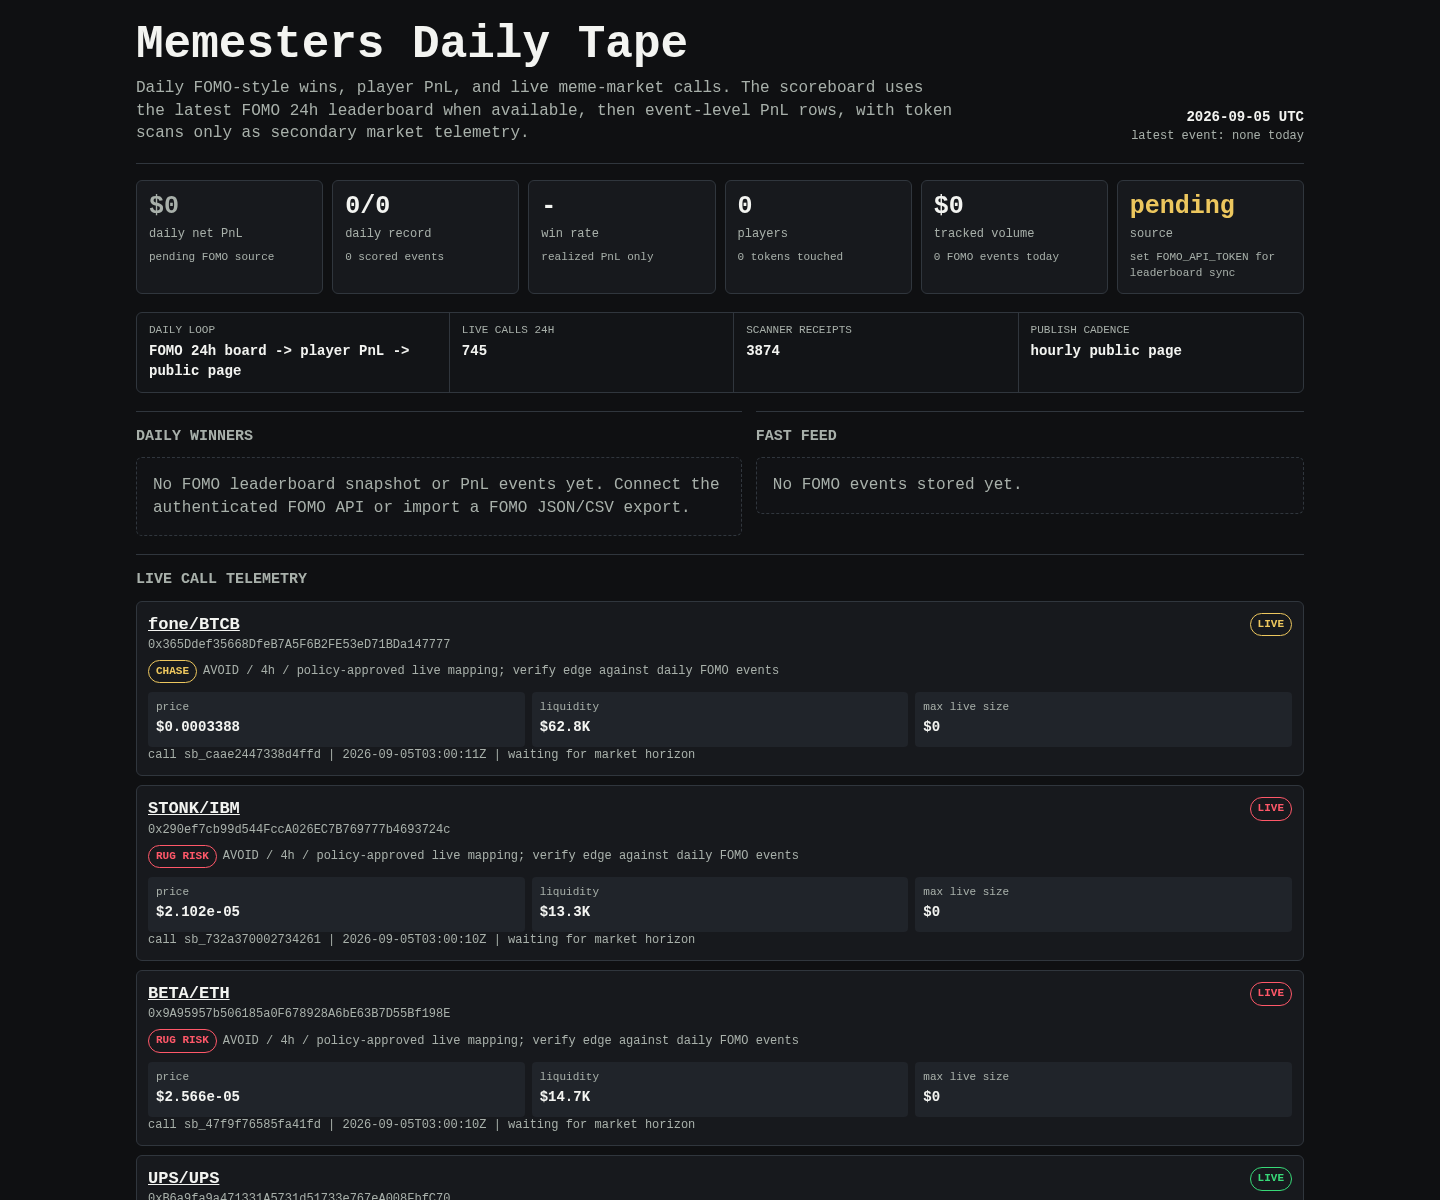
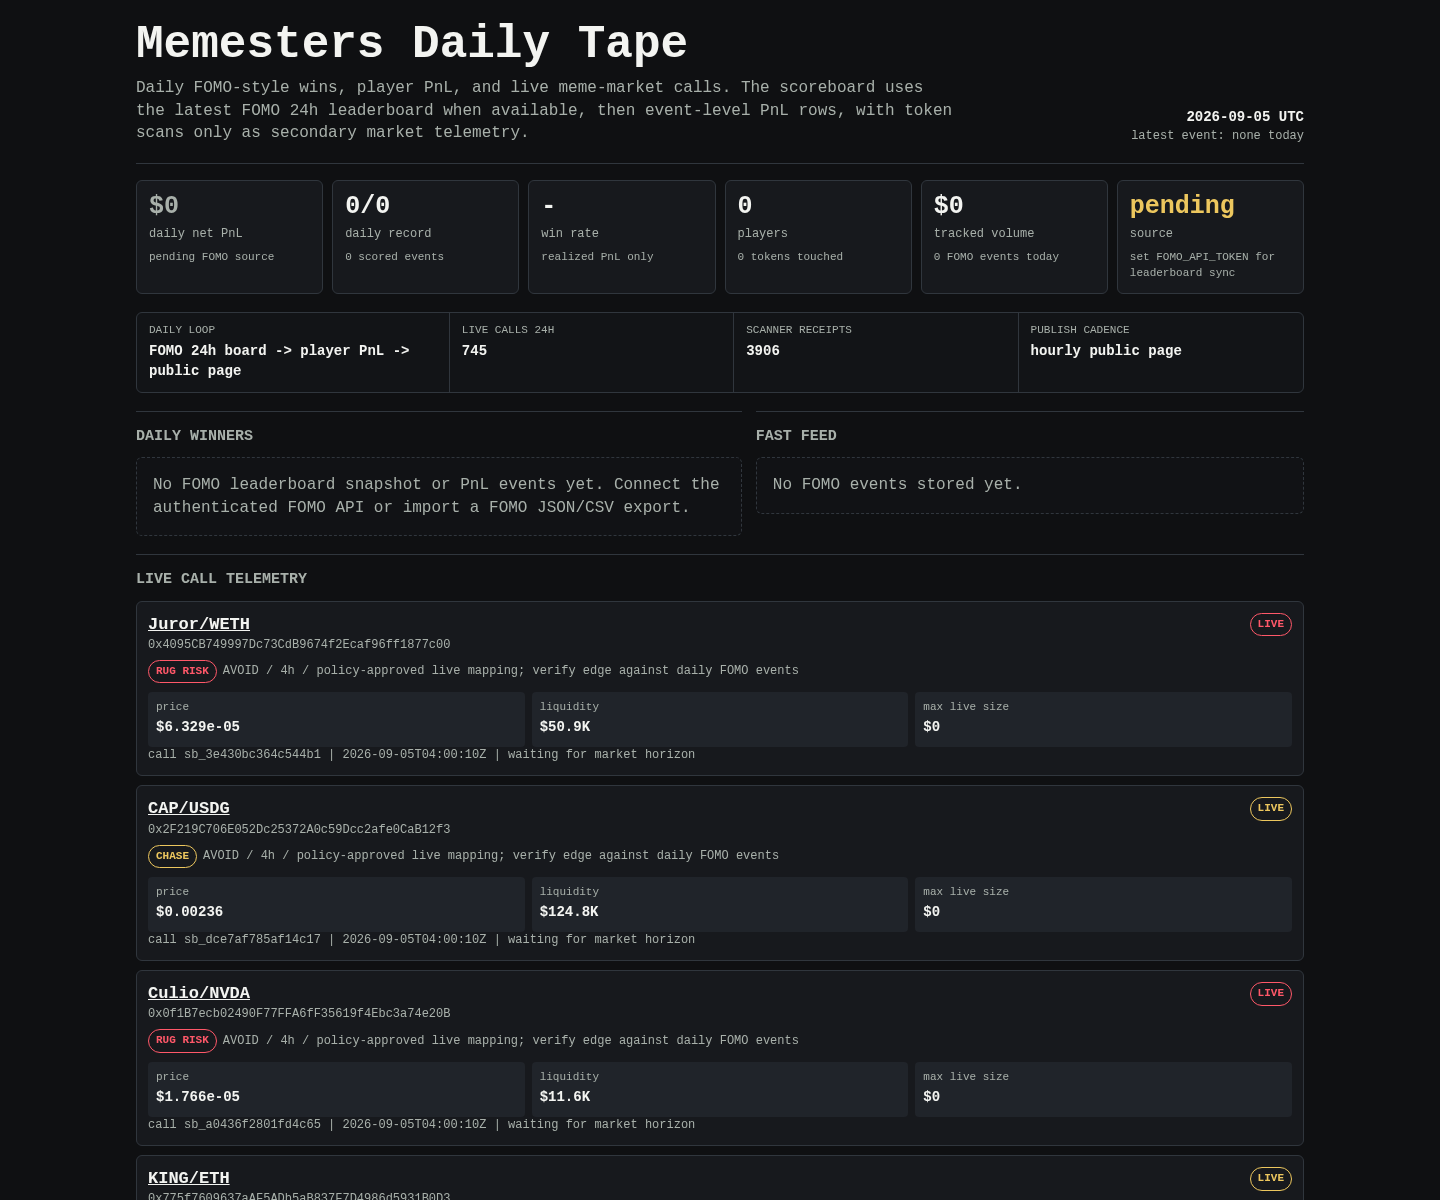
Update Memesters scoreboard

diff --git a/memesters/index.html b/memesters/index.html
@@ -150,7 +150,7 @@
     <div class="rail" aria-label="live operating loop">
       <div><span>daily loop</span><b>FOMO 24h board -> player PnL -> public page</b></div>
       <div><span>live calls 24h</span><b>745</b></div>
-      <div><span>scanner receipts</span><b>3874</b></div>
+      <div><span>scanner receipts</span><b>3906</b></div>
       <div><span>publish cadence</span><b>hourly public page</b></div>
     </div>
 
@@ -171,8 +171,29 @@
     <article class="receipt">
       <div class="receipt-head">
         <div>
-          <div class="pair"><a href="https://dexscreener.com/bsc/0xa6f815e85aa629164756e0878d3dfdef8192064d">fone/BTCB</a></div>
-          <div class="addr">0x365Ddef35668DfeB7A5F6B2FE53eD71BDa147777</div>
+          <div class="pair"><a href="https://dexscreener.com/robinhood/0xfa501c447584e6d9603cb5d0b1864ee9d8a29b53">Juror/WETH</a></div>
+          <div class="addr">0x4095CB749997Dc73CdB9674f2Ecaf96ff1877c00</div>
+          <div class="addr policy-line">
+            <span class="badge rug-risk">RUG RISK</span>
+            <span>AVOID / 4h / policy-approved live mapping; verify edge against daily FOMO events</span>
+          </div>
+        </div>
+        <span class="badge rug-risk">LIVE</span>
+      </div>
+      <div class="receipt-grid">
+        <div class="kv"><span>price</span><b>$6.329e-05</b></div>
+        <div class="kv"><span>liquidity</span><b>$50.9K</b></div>
+        <div class="kv"><span>max live size</span><b>$0</b></div>
+      </div>
+      <div class="outcomes">call sb_3e430bc364c544b1 | 2026-09-05T04:00:10Z | waiting for market horizon</div>
+    </article>
+    
+
+    <article class="receipt">
+      <div class="receipt-head">
+        <div>
+          <div class="pair"><a href="https://dexscreener.com/robinhood/0xd5309d2e80ee500048b9095f9b479c168d07ffec33d3f3ee7ac366983e8cf14b">CAP/USDG</a></div>
+          <div class="addr">0x2F219C706E052Dc25372A0c59Dcc2afe0CaB12f3</div>
           <div class="addr policy-line">
             <span class="badge chase">CHASE</span>
             <span>AVOID / 4h / policy-approved live mapping; verify edge against daily FOMO events</span>
@@ -181,19 +202,19 @@
         <span class="badge chase">LIVE</span>
       </div>
       <div class="receipt-grid">
-        <div class="kv"><span>price</span><b>$0.0003388</b></div>
-        <div class="kv"><span>liquidity</span><b>$62.8K</b></div>
+        <div class="kv"><span>price</span><b>$0.00236</b></div>
+        <div class="kv"><span>liquidity</span><b>$124.8K</b></div>
         <div class="kv"><span>max live size</span><b>$0</b></div>
       </div>
-      <div class="outcomes">call sb_caae2447338d4ffd | 2026-09-05T03:00:11Z | waiting for market horizon</div>
+      <div class="outcomes">call sb_dce7af785af14c17 | 2026-09-05T04:00:10Z | waiting for market horizon</div>
     </article>
     
 
     <article class="receipt">
       <div class="receipt-head">
         <div>
-          <div class="pair"><a href="https://dexscreener.com/robinhood/0x0d8ac726c417dd19be24650c778f1ee494918b4e1a0b857a79ee69a371820d99">STONK/IBM</a></div>
-          <div class="addr">0x290ef7cb99d544FccA026EC7B769777b4693724c</div>
+          <div class="pair"><a href="https://dexscreener.com/robinhood/0xcf1c7c53e10159a48db565b097becbff6331a69937a0553c16106f3f4edc8aa7">Culio/NVDA</a></div>
+          <div class="addr">0x0f1B7ecb02490F77FFA6fF35619f4Ebc3a74e20B</div>
           <div class="addr policy-line">
             <span class="badge rug-risk">RUG RISK</span>
             <span>AVOID / 4h / policy-approved live mapping; verify edge against daily FOMO events</span>
@@ -202,19 +223,40 @@
         <span class="badge rug-risk">LIVE</span>
       </div>
       <div class="receipt-grid">
-        <div class="kv"><span>price</span><b>$2.102e-05</b></div>
-        <div class="kv"><span>liquidity</span><b>$13.3K</b></div>
+        <div class="kv"><span>price</span><b>$1.766e-05</b></div>
+        <div class="kv"><span>liquidity</span><b>$11.6K</b></div>
         <div class="kv"><span>max live size</span><b>$0</b></div>
       </div>
-      <div class="outcomes">call sb_732a370002734261 | 2026-09-05T03:00:10Z | waiting for market horizon</div>
+      <div class="outcomes">call sb_a0436f2801fd4c65 | 2026-09-05T04:00:10Z | waiting for market horizon</div>
     </article>
     
 
     <article class="receipt">
       <div class="receipt-head">
         <div>
-          <div class="pair"><a href="https://dexscreener.com/robinhood/0x3635abf0d047b848504e790e09bc3153f600e1b5a35cf5fb62216c61ad88129b">BETA/ETH</a></div>
-          <div class="addr">0x9A95957b506185a0F678928A6bE63B7D55Bf198E</div>
+          <div class="pair"><a href="https://dexscreener.com/robinhood/0xae6b21954c44c8c2d6b4a92b442cca201e26e380f2476edf04eec902b246de28">KING/ETH</a></div>
+          <div class="addr">0x775f7609637aAF5ADb5aB837F7D4986d5931B0D3</div>
+          <div class="addr policy-line">
+            <span class="badge chase">CHASE</span>
+            <span>AVOID / 4h / policy-approved live mapping; verify edge against daily FOMO events</span>
+          </div>
+        </div>
+        <span class="badge chase">LIVE</span>
+      </div>
+      <div class="receipt-grid">
+        <div class="kv"><span>price</span><b>$0.0002509</b></div>
+        <div class="kv"><span>liquidity</span><b>$46.0K</b></div>
+        <div class="kv"><span>max live size</span><b>$0</b></div>
+      </div>
+      <div class="outcomes">call sb_560c705703b441cd | 2026-09-05T04:00:09Z | waiting for market horizon</div>
+    </article>
+    
+
+    <article class="receipt">
+      <div class="receipt-head">
+        <div>
+          <div class="pair"><a href="https://dexscreener.com/robinhood/0xc4adeb4fce7004cde9617c00e0c601b3aef82a1e9e2e33084cc8a6a2e9c60088">PRESSO/ETH</a></div>
+          <div class="addr">0xFAF3Bf2FA4CB7a8B202C6ec897eC2a0a0Be9c2C0</div>
           <div class="addr policy-line">
             <span class="badge rug-risk">RUG RISK</span>
             <span>AVOID / 4h / policy-approved live mapping; verify edge against daily FOMO events</span>
@@ -223,19 +265,103 @@
         <span class="badge rug-risk">LIVE</span>
       </div>
       <div class="receipt-grid">
-        <div class="kv"><span>price</span><b>$2.566e-05</b></div>
-        <div class="kv"><span>liquidity</span><b>$14.7K</b></div>
+        <div class="kv"><span>price</span><b>$3.096e-06</b></div>
+        <div class="kv"><span>liquidity</span><b>$5.1K</b></div>
         <div class="kv"><span>max live size</span><b>$0</b></div>
       </div>
-      <div class="outcomes">call sb_47f9f76585fa41fd | 2026-09-05T03:00:10Z | waiting for market horizon</div>
+      <div class="outcomes">call sb_953b6222343b4da1 | 2026-09-05T04:00:09Z | waiting for market horizon</div>
     </article>
     
 
     <article class="receipt">
       <div class="receipt-head">
         <div>
-          <div class="pair"><a href="https://dexscreener.com/robinhood/0xfb9b1669a189d1d5584ae2e6e9c523471c00c239ffb578bbfb423b01cf57cff1">UPS/UPS</a></div>
-          <div class="addr">0xB6a9fa9a471331A5731d51733e767eA008FbfC70</div>
+          <div class="pair"><a href="https://dexscreener.com/solana/6iw5e1nznl1liwkx4d2j9cifpemdv4qgajecnlttjmst">motion/SOL</a></div>
+          <div class="addr">HXe9JMFGJabPqM6tiNB6tyFSGnXrYiwz8Ps5Ks81ASyf</div>
+          <div class="addr policy-line">
+            <span class="badge rug-risk">RUG RISK</span>
+            <span>AVOID / 4h / policy-approved live mapping; verify edge against daily FOMO events</span>
+          </div>
+        </div>
+        <span class="badge rug-risk">LIVE</span>
+      </div>
+      <div class="receipt-grid">
+        <div class="kv"><span>price</span><b>$5.667e-06</b></div>
+        <div class="kv"><span>liquidity</span><b>$4.6K</b></div>
+        <div class="kv"><span>max live size</span><b>$0</b></div>
+      </div>
+      <div class="outcomes">call sb_a8fb0c982d264b50 | 2026-09-05T04:00:09Z | waiting for market horizon</div>
+    </article>
+    
+
+    <article class="receipt">
+      <div class="receipt-head">
+        <div>
+          <div class="pair"><a href="https://dexscreener.com/robinhood/0x1c17c31cf2e0cca612abb8ec548cecb68d264717e96bf83cc7b2b3737cae056d">MEGA/ETH</a></div>
+          <div class="addr">0xA6313667267Cb099FeCC5Ed784d3BdB640c801d5</div>
+          <div class="addr policy-line">
+            <span class="badge rug-risk">RUG RISK</span>
+            <span>AVOID / 4h / policy-approved live mapping; verify edge against daily FOMO events</span>
+          </div>
+        </div>
+        <span class="badge rug-risk">LIVE</span>
+      </div>
+      <div class="receipt-grid">
+        <div class="kv"><span>price</span><b>$2.331e-05</b></div>
+        <div class="kv"><span>liquidity</span><b>$14.0K</b></div>
+        <div class="kv"><span>max live size</span><b>$0</b></div>
+      </div>
+      <div class="outcomes">call sb_7f4e74ea707544ae | 2026-09-05T04:00:09Z | waiting for market horizon</div>
+    </article>
+    
+
+    <article class="receipt">
+      <div class="receipt-head">
+        <div>
+          <div class="pair"><a href="https://dexscreener.com/robinhood/0x8258ffe591e5f88ecedc909022da25001ab89cca">AGI/WETH</a></div>
+          <div class="addr">0xf5B204181f903d3873c0cc1f9Bf3a11DB2788c5d</div>
+          <div class="addr policy-line">
+            <span class="badge chase">CHASE</span>
+            <span>AVOID / 4h / policy-approved live mapping; verify edge against daily FOMO events</span>
+          </div>
+        </div>
+        <span class="badge chase">LIVE</span>
+      </div>
+      <div class="receipt-grid">
+        <div class="kv"><span>price</span><b>$0.0001415</b></div>
+        <div class="kv"><span>liquidity</span><b>$57.2K</b></div>
+        <div class="kv"><span>max live size</span><b>$0</b></div>
+      </div>
+      <div class="outcomes">call sb_a585372d00b5439c | 2026-09-05T04:00:09Z | waiting for market horizon</div>
+    </article>
+    
+
+    <article class="receipt">
+      <div class="receipt-head">
+        <div>
+          <div class="pair"><a href="https://dexscreener.com/robinhood/0x63521fdba743b906dc313a667322a3e60481ed079a586c0b029831d7d9d92ab8">SHEKEL/GLD</a></div>
+          <div class="addr">0xa71a93AB155D55eD3d62Fb5F5650801f787f806f</div>
+          <div class="addr policy-line">
+            <span class="badge chase">CHASE</span>
+            <span>AVOID / 4h / policy-approved live mapping; verify edge against daily FOMO events</span>
+          </div>
+        </div>
+        <span class="badge chase">LIVE</span>
+      </div>
+      <div class="receipt-grid">
+        <div class="kv"><span>price</span><b>$0.0001245</b></div>
+        <div class="kv"><span>liquidity</span><b>$32.9K</b></div>
+        <div class="kv"><span>max live size</span><b>$0</b></div>
+      </div>
+      <div class="outcomes">call sb_1ce7bc6d7d9a4ba1 | 2026-09-05T03:45:09Z | waiting for market horizon</div>
+    </article>
+    
+
+    <article class="receipt">
+      <div class="receipt-head">
+        <div>
+          <div class="pair"><a href="https://dexscreener.com/robinhood/0xc6bf528083e6529f2032e31634d9045595d0759c44320178c5bc1aa87030c298">LMI/LMT</a></div>
+          <div class="addr">0x05086516A3e1f69A604365Bde4F01AD91D0eda01</div>
           <div class="addr policy-line">
             <span class="badge early">EARLY</span>
             <span>BUY / 1h / policy-approved live mapping; verify edge against daily FOMO events</span>
@@ -244,137 +370,11 @@
         <span class="badge early">LIVE</span>
       </div>
       <div class="receipt-grid">
-        <div class="kv"><span>price</span><b>$4.367e-05</b></div>
-        <div class="kv"><span>liquidity</span><b>$19.1K</b></div>
-        <div class="kv"><span>max live size</span><b>$229</b></div>
+        <div class="kv"><span>price</span><b>$4.479e-06</b></div>
+        <div class="kv"><span>liquidity</span><b>$4.5K</b></div>
+        <div class="kv"><span>max live size</span><b>$53</b></div>
       </div>
-      <div class="outcomes">call sb_8c807326c5064dcb | 2026-09-05T03:00:10Z | waiting for market horizon</div>
-    </article>
-    
-
-    <article class="receipt">
-      <div class="receipt-head">
-        <div>
-          <div class="pair"><a href="https://dexscreener.com/solana/6r6yh27roknjjoq2j4rfar9bk5qk5gkamw7mjcjzugxn">DRAGGO/SOL</a></div>
-          <div class="addr">AxrRVydXi8YGVxAi6w6aFkm6BxFrXYrVrLtpcwakpump</div>
-          <div class="addr policy-line">
-            <span class="badge chase">CHASE</span>
-            <span>AVOID / 4h / policy-approved live mapping; verify edge against daily FOMO events</span>
-          </div>
-        </div>
-        <span class="badge chase">LIVE</span>
-      </div>
-      <div class="receipt-grid">
-        <div class="kv"><span>price</span><b>$8.496e-05</b></div>
-        <div class="kv"><span>liquidity</span><b>$23.3K</b></div>
-        <div class="kv"><span>max live size</span><b>$0</b></div>
-      </div>
-      <div class="outcomes">call sb_c82bcfe7081c43b0 | 2026-09-05T03:00:10Z | waiting for market horizon</div>
-    </article>
-    
-
-    <article class="receipt">
-      <div class="receipt-head">
-        <div>
-          <div class="pair"><a href="https://dexscreener.com/robinhood/0xcf3eb60852624707e38efe57da052661af8c7435">RF/WETH</a></div>
-          <div class="addr">0xA71c9C981f2a6bab8e9204F6d633cD617aA38c7e</div>
-          <div class="addr policy-line">
-            <span class="badge chase">CHASE</span>
-            <span>AVOID / 4h / policy-approved live mapping; verify edge against daily FOMO events</span>
-          </div>
-        </div>
-        <span class="badge chase">LIVE</span>
-      </div>
-      <div class="receipt-grid">
-        <div class="kv"><span>price</span><b>$5.274e-05</b></div>
-        <div class="kv"><span>liquidity</span><b>$22.9K</b></div>
-        <div class="kv"><span>max live size</span><b>$0</b></div>
-      </div>
-      <div class="outcomes">call sb_581e605d8e794ced | 2026-09-05T03:00:10Z | waiting for market horizon</div>
-    </article>
-    
-
-    <article class="receipt">
-      <div class="receipt-head">
-        <div>
-          <div class="pair"><a href="https://dexscreener.com/solana/cf2vbomtvjkbndapkejpakvbhhnrmort4nj8zbztzjna">ANGRYFROG/SOL</a></div>
-          <div class="addr">9H5xgKFTERSzXbEd8qRsZk5G7Z8Qfq8wmPEaox43pump</div>
-          <div class="addr policy-line">
-            <span class="badge chase">CHASE</span>
-            <span>AVOID / 4h / policy-approved live mapping; verify edge against daily FOMO events</span>
-          </div>
-        </div>
-        <span class="badge chase">LIVE</span>
-      </div>
-      <div class="receipt-grid">
-        <div class="kv"><span>price</span><b>$0.0001776</b></div>
-        <div class="kv"><span>liquidity</span><b>$34.1K</b></div>
-        <div class="kv"><span>max live size</span><b>$0</b></div>
-      </div>
-      <div class="outcomes">call sb_a9b7321c8d1d4e9a | 2026-09-05T03:00:10Z | waiting for market horizon</div>
-    </article>
-    
-
-    <article class="receipt">
-      <div class="receipt-head">
-        <div>
-          <div class="pair"><a href="https://dexscreener.com/robinhood/0x0c4c880d77d8db777f5c49181f2d88ca9165afb543a2aacd3caa92759615f100">IQ/pHOOD3x</a></div>
-          <div class="addr">0xBE2F94A9566e9B1419C3f3Fc2b6Ebbf9744CFDc6</div>
-          <div class="addr policy-line">
-            <span class="badge chase">CHASE</span>
-            <span>AVOID / 4h / policy-approved live mapping; verify edge against daily FOMO events</span>
-          </div>
-        </div>
-        <span class="badge chase">LIVE</span>
-      </div>
-      <div class="receipt-grid">
-        <div class="kv"><span>price</span><b>$0.001414</b></div>
-        <div class="kv"><span>liquidity</span><b>$103.9K</b></div>
-        <div class="kv"><span>max live size</span><b>$0</b></div>
-      </div>
-      <div class="outcomes">call sb_f01a50953f6c4427 | 2026-09-05T03:00:10Z | waiting for market horizon</div>
-    </article>
-    
-
-    <article class="receipt">
-      <div class="receipt-head">
-        <div>
-          <div class="pair"><a href="https://dexscreener.com/robinhood/0x682b463233c32b7416c8124fb5d7d5e75043780875b7ee5e831d9d8976c69d69">SYIELD/ETH</a></div>
-          <div class="addr">0x3DC62E011924D700295eAAFF329a21DC8d9091F1</div>
-          <div class="addr policy-line">
-            <span class="badge rug-risk">RUG RISK</span>
-            <span>AVOID / 4h / policy-approved live mapping; verify edge against daily FOMO events</span>
-          </div>
-        </div>
-        <span class="badge rug-risk">LIVE</span>
-      </div>
-      <div class="receipt-grid">
-        <div class="kv"><span>price</span><b>$3.957e-05</b></div>
-        <div class="kv"><span>liquidity</span><b>$18.2K</b></div>
-        <div class="kv"><span>max live size</span><b>$0</b></div>
-      </div>
-      <div class="outcomes">call sb_b8ca0895f9704ecd | 2026-09-05T02:45:09Z | waiting for market horizon</div>
-    </article>
-    
-
-    <article class="receipt">
-      <div class="receipt-head">
-        <div>
-          <div class="pair"><a href="https://dexscreener.com/robinhood/0xd163fcf10e3584594e5c29f8916afe4326b9074ad000ddf3388238fba93d90ff">ILY/ETH</a></div>
-          <div class="addr">0x691E88Fd50Ce00d468DB840454aBB69764DB3Cc7</div>
-          <div class="addr policy-line">
-            <span class="badge chase">CHASE</span>
-            <span>AVOID / 4h / policy-approved live mapping; verify edge against daily FOMO events</span>
-          </div>
-        </div>
-        <span class="badge chase">LIVE</span>
-      </div>
-      <div class="receipt-grid">
-        <div class="kv"><span>price</span><b>$1.906e-05</b></div>
-        <div class="kv"><span>liquidity</span><b>$11.3K</b></div>
-        <div class="kv"><span>max live size</span><b>$0</b></div>
-      </div>
-      <div class="outcomes">call sb_b3843a064c974ea5 | 2026-09-05T02:45:09Z | waiting for market horizon</div>
+      <div class="outcomes">call sb_a89238131ea84cb7 | 2026-09-05T03:45:09Z | waiting for market horizon</div>
     </article>
     
     </section>
